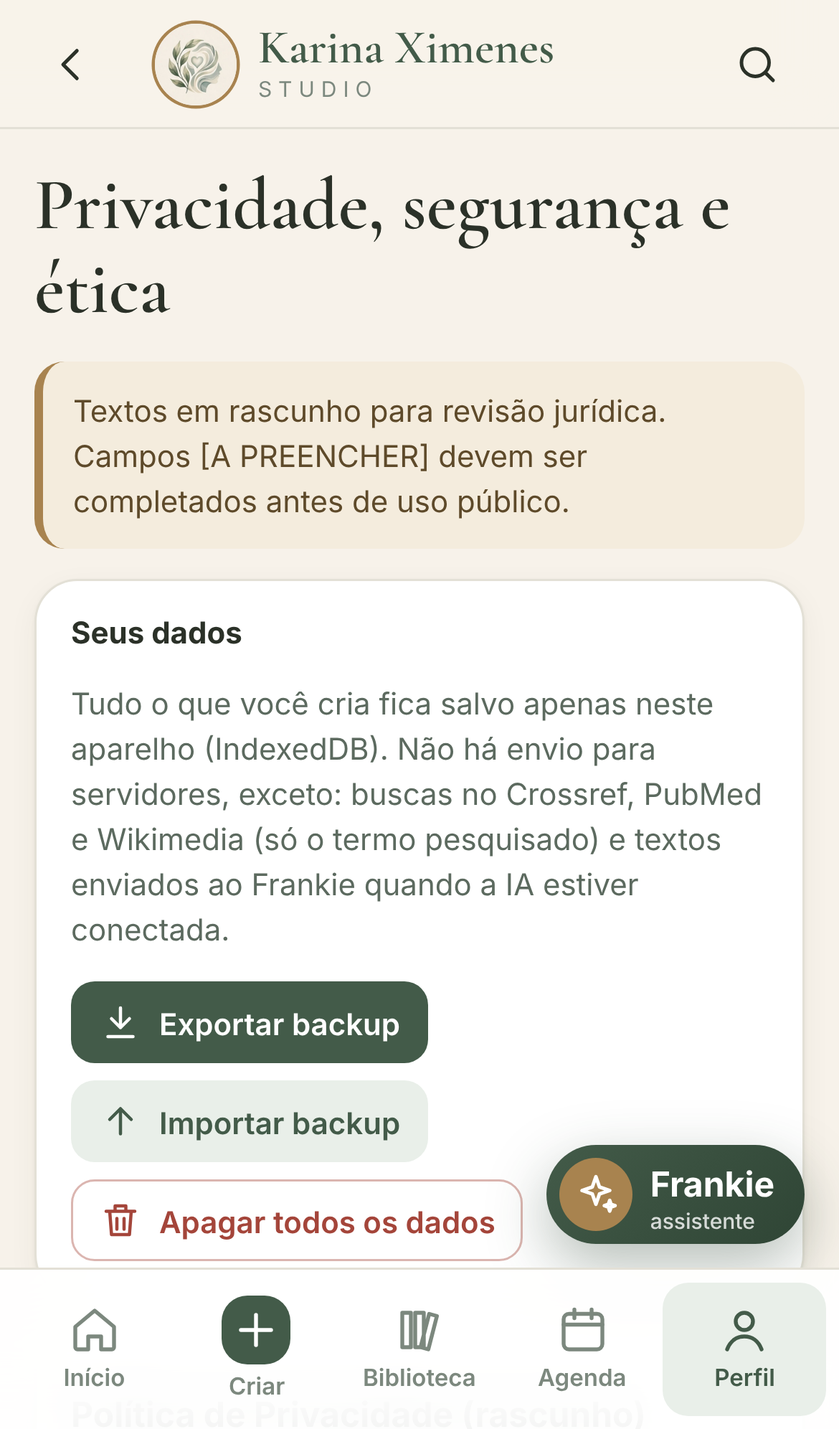
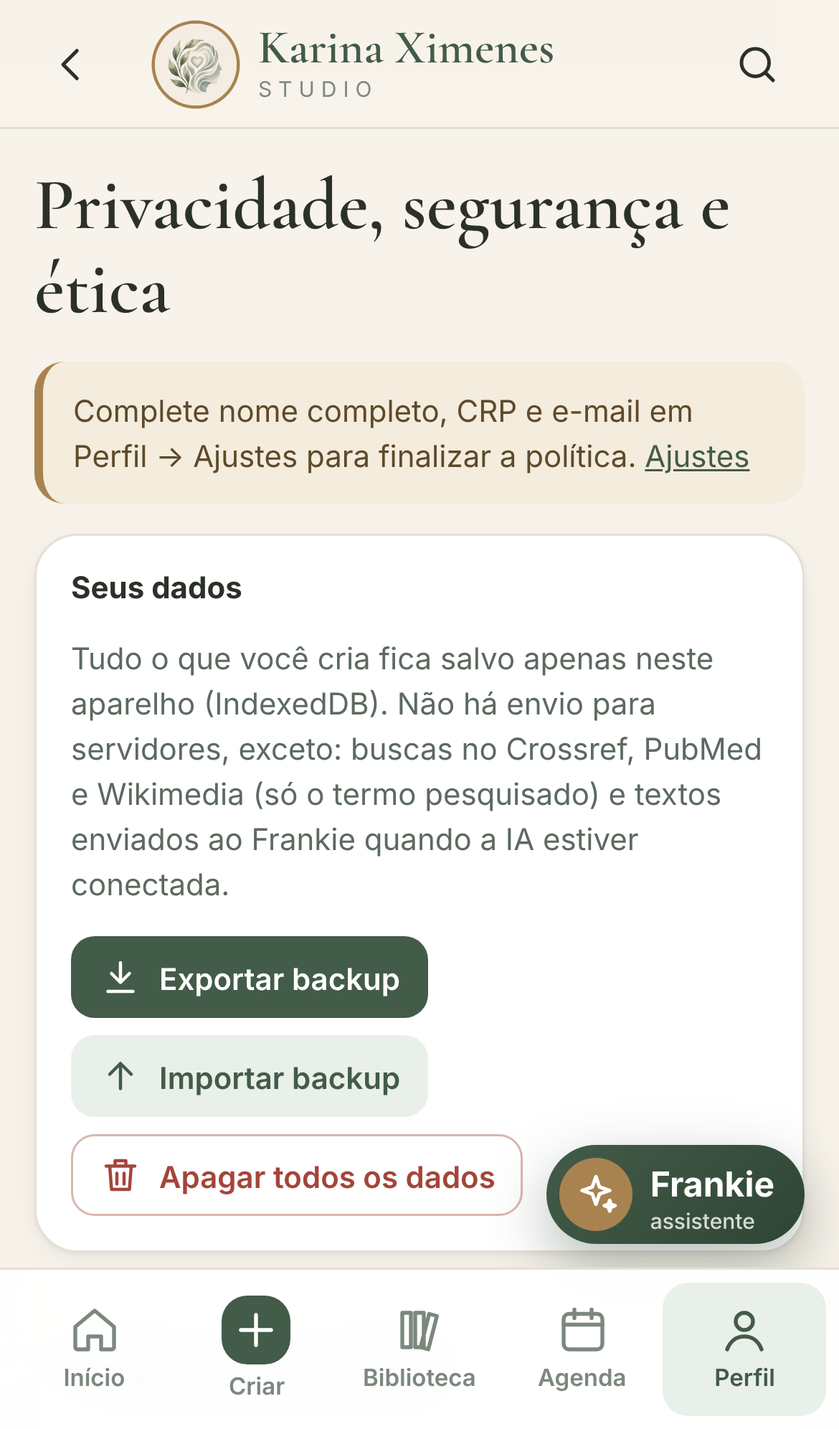
Resolver pendências: testes de integrações externas, publicação automática do Frankie, privacidade completa com dados profissionais e CRP
Claude-Session: https://claude.ai/code/session_01E4AjQ1BHyExnSFJKVQtdG5

diff --git a/js/modules/profile.js b/js/modules/profile.js
@@ -40,9 +40,18 @@ function settings(view) {
       <label class="field"><span>${t('Idioma')}</span><select class="input" id="lg">${Object.entries(LANGS).map(([k, v]) => `<option value="${k}" ${p.lang === k ? 'selected' : ''}>${v}</option>`).join('')}</select></label>
       <label class="field"><span>${t('Aparência')}</span><div class="seg" id="th">${[['auto', t('Automático')], ['light', t('Claro')], ['dark', t('Escuro')]].map(([k, v]) => `<button data-th="${k}" aria-pressed="${p.theme === k}">${v}</button>`).join('')}</div></label>
     </div>
+    <h2 class="h-section">${t('Dados profissionais')}</h2>
+    <div class="card stack">
+      <p class="small muted" style="margin:0">${t('Usados na Política de Privacidade e nos documentos. Ficam só neste aparelho.')}</p>
+      <label class="field"><span>${t('Nome completo')}</span><input class="input" id="pfn" value="${esc(p.fullName || '')}" autocomplete="name"></label>
+      <div class="grid c2"><label class="field"><span>CRP</span><input class="input" id="pcrp" value="${esc(p.crp || '')}" placeholder="00/00000"></label>
+      <label class="field"><span>${t('Cidade/UF')}</span><input class="input" id="pcity" value="${esc(p.city || '')}"></label></div>
+      <label class="field"><span>${t('E-mail para contato e privacidade')}</span><input class="input" id="pmail" type="email" value="${esc(p.email || '')}" autocomplete="email"></label>
+    </div>
     <h2 class="h-section">Frankie · ${t('IA')}</h2>
     <div class="card stack">
       <p class="small muted" style="margin:0">${t('O Frankie usa IA por um backend seguro (Cloudflare Worker) onde fica a chave — nada sensível é guardado no app. Sem backend, ele funciona no modo assistido.')}</p>
+      <p class="xs muted" style="margin:0">${t('Se o Frankie foi publicado pelo GitHub, o endereço é preenchido sozinho — basta o código de acesso.')}</p>
       <label class="field"><span>${t('Endereço do backend')}</span><input class="input" id="ae" placeholder="https://frankie.SEU-SUBDOMINIO.workers.dev" value="${esc(p.aiEndpoint)}" inputmode="url"></label>
       <label class="field"><span>${t('Código de acesso')}</span><input class="input" id="ac" type="password" value="${esc(p.aiCode)}" autocomplete="off"></label>
       <p class="xs muted" style="margin:0">${t('Guia de instalação do backend: arquivo worker/README.md no repositório.')}</p>
@@ -57,7 +66,9 @@ function settings(view) {
   $('#sv', view).onclick = () => {
     const ae = $('#ae', view).value.trim();
     if (ae && !/^https:\/\//.test(ae)) return toast(t('O endereço do backend precisa começar com https://'));
-    prefs.set({ name: $('#nm', view).value.trim() || 'Karina', signature: $('#sg', view).value.trim() || 'Karina Ximenes | Psicóloga', lang: $('#lg', view).value, aiEndpoint: ae, aiCode: $('#ac', view).value });
+    const email = $('#pmail', view).value.trim(); if (email && !/^[^@\s]+@[^@\s]+\.[^@\s]+$/.test(email)) return toast(t('E-mail inválido'));
+    const crp = $('#pcrp', view).value.trim(); if (crp && !/^\d{2}\/\d{3,6}$/.test(crp)) return toast(t('CRP no formato 00/00000'));
+    prefs.set({ fullName: $('#pfn', view).value.trim(), crp, city: $('#pcity', view).value.trim(), email, name: $('#nm', view).value.trim() || 'Karina', signature: $('#sg', view).value.trim() || 'Karina Ximenes | Psicóloga', lang: $('#lg', view).value, aiEndpoint: ae, aiCode: $('#ac', view).value });
     setLang($('#lg', view).value); paintChrome(); toast(t('Ajustes salvos')); refresh();
   };
   $('#chpin', view).onclick = () => {
@@ -78,7 +89,7 @@ async function brand(view) {
     <h2 class="h-section">${t('Tipografia')}</h2>
     <div class="card"><p style="font-family:var(--serif);font-size:32px;margin:0">Cormorant Garamond</p><p class="small muted">${t('Títulos e frases — elegância editorial')}</p><p style="font-family:var(--sans);font-size:22px;margin:10px 0 0">Inter</p><p class="small muted">${t('Textos de apoio e interface — legibilidade')}</p></div>
     <h2 class="h-section">${t('Ícones do aplicativo')}</h2>
-    <div class="card row" style="justify-content:space-around">${[['icon-180.png', 'iPhone 180'], ['icon-192.png', 'Android 192'], ['icon-maskable-512.png', 'Maskable 512'], ['favicon-48.png', 'Favicon']].map(([f, l]) => `<div style="text-align:center"><img src="./assets/brand/${f}?v=2.0.0" alt="${l}" style="width:64px;height:64px;border-radius:14px;box-shadow:var(--shadow-1)"><div class="xs muted">${l}</div></div>`).join('')}</div>
+    <div class="card row" style="justify-content:space-around">${[['icon-180.png', 'iPhone 180'], ['icon-192.png', 'Android 192'], ['icon-maskable-512.png', 'Maskable 512'], ['favicon-48.png', 'Favicon']].map(([f, l]) => `<div style="text-align:center"><img src="./assets/brand/${f}?v=2.0.1" alt="${l}" style="width:64px;height:64px;border-radius:14px;box-shadow:var(--shadow-1)"><div class="xs muted">${l}</div></div>`).join('')}</div>
     <h2 class="h-section">${t('Paletas para artes')}</h2>
     <div class="chips">${Object.values(PALETTES).map((p) => `<span class="chip"><i style="width:14px;height:14px;border-radius:50%;background:${p.bg.type === 'solid' ? p.bg.c1 : `linear-gradient(${p.bg.c1},${p.bg.c2})`};border:1px solid #0002"></i>${t(p.name)}</span>`).join('')}</div>`;
   $('.palette', view).onclick = (e) => { const b = e.target.closest('[data-hex]'); if (b) copyText(b.dataset.hex); };
@@ -104,22 +115,30 @@ function install(view) {
 }
 
 function privacy(view) {
+  const pf = prefs.get();
+  const F = (v, label) => (v ? esc(v) : `<a class="fill" href="#/perfil/ajustes">[${esc(t('preencher em Ajustes'))}: ${esc(label)}]</a>`);
+  const missing = !pf.fullName || !pf.crp || !pf.email;
   view.innerHTML = `<h1 class="h-title">${t('Privacidade, segurança e ética')}</h1>
-    <p class="notice small">${t('Textos em rascunho para revisão jurídica. Campos [A PREENCHER] devem ser completados antes de uso público.')}</p>
+    ${missing ? `<p class="notice small">${t('Complete nome completo, CRP e e-mail em Perfil → Ajustes para finalizar a política.')} <a href="#/perfil/ajustes">${t('Ajustes')}</a></p>` : `<p class="notice ai small">${t('Política completa com seus dados profissionais. Recomendamos revisão jurídica antes de divulgação pública.')}</p>`}
     <div class="card" style="margin-top:12px"><h3 class="small">${t('Seus dados')}</h3><p class="small muted">${t('Tudo o que você cria fica salvo apenas neste aparelho (IndexedDB). Não há envio para servidores, exceto: buscas no Crossref, PubMed e Wikimedia (só o termo pesquisado) e textos enviados ao Frankie quando a IA estiver conectada.')}</p>
       <div class="row"><button class="btn sm" id="exp">${I.download}${t('Exportar backup')}</button><label class="btn sm secondary">${I.up}${t('Importar backup')}<input type="file" accept="application/json" id="imp" hidden></label><button class="btn sm danger" id="wipe">${I.trash}${t('Apagar todos os dados')}</button></div></div>
     <div class="legal card" style="margin-top:12px">
-      <h3>${t('Política de Privacidade (rascunho)')}</h3>
-      <p>Controladora: <span class="fill">[A PREENCHER — nome completo e CRP]</span>. Contato do encarregado (DPO): <span class="fill">[A PREENCHER — e-mail]</span>.</p>
-      <p>Finalidade: criação de conteúdo educativo e institucional. O aplicativo não se destina a registro de prontuários ou dados de pacientes (LGPD, art. 11 — dados sensíveis de saúde).</p>
-      <p>Base legal: <span class="fill">[A PREENCHER]</span>. Retenção: os dados permanecem no aparelho até que a usuária os apague. Direitos do titular (art. 18): acesso, correção, portabilidade (exportar backup) e eliminação (apagar dados) disponíveis nesta tela.</p>
-      <p>Compartilhamento com terceiros: Crossref, NCBI/PubMed e Wikimedia recebem apenas os termos de busca; o provedor de IA recebe apenas os textos enviados ao Frankie, via backend próprio. <span class="fill">[A PREENCHER — provedores e país de processamento]</span>.</p>
-      <h3>${t('Termos de uso (rascunho)')}</h3>
-      <p>Uso exclusivo da titular <span class="fill">[A PREENCHER]</span>. As artes e textos são de responsabilidade da profissional, que deve revisá-los antes da publicação.</p>
+      <h3>${t('Política de Privacidade')}</h3>
+      <p class="xs muted">Versão 1.0 — ${new Date().toLocaleDateString('pt-BR')}. Documento elaborado com base na LGPD (Lei 13.709/2018) e no Código de Ética Profissional do Psicólogo (Resolução CFP 010/2005); recomenda-se revisão por profissional do Direito.</p>
+      <p><b>1. Quem somos.</b> O Studio Karina Ximenes é um aplicativo de uso profissional de ${F(pf.fullName, 'nome completo')}, psicóloga, ${pf.crp ? 'CRP ' + esc(pf.crp) : F('', 'CRP')}${pf.city ? ', ' + esc(pf.city) : ''}, que atua como <b>controladora</b> dos dados tratados no aplicativo. Contato para assuntos de privacidade (encarregada): ${F(pf.email, 'e-mail')}.</p>
+      <p><b>2. Finalidade.</b> Criar, organizar e publicar conteúdos educativos, científicos e institucionais em Psicologia. O aplicativo <b>não</b> se destina ao registro de prontuários, atendimentos ou quaisquer dados de pacientes.</p>
+      <p><b>3. Dados tratados.</b> (a) conteúdos criados pela usuária (artes, textos, documentos, agenda, referências); (b) imagens adicionadas pela usuária ou obtidas em bancos de licença livre; (c) preferências do aplicativo. Não coletamos dados de navegação, localização, contatos nem usamos cookies de rastreamento.</p>
+      <p><b>4. Onde ficam.</b> Todos os dados ficam armazenados <b>apenas no aparelho</b> (IndexedDB/armazenamento local do navegador). Não há servidor do Studio que receba ou guarde esses dados.</p>
+      <p><b>5. Compartilhamento.</b> Somente quando a usuária aciona: termos de busca enviados ao Crossref (EUA), à National Library of Medicine/PubMed (EUA) e à Wikimedia Foundation (EUA); textos enviados ao assistente Frankie, que trafegam pelo backend próprio na Cloudflare (rede global) até o provedor de IA Anthropic (EUA). Não há venda nem uso publicitário de dados.</p>
+      <p><b>6. Bases legais.</b> Legítimo interesse da controladora na produção de conteúdo profissional (art. 7º, IX) e execução de suas atividades profissionais (art. 7º, V). Dados pessoais sensíveis (art. 11) não devem ser inseridos no aplicativo.</p>
+      <p><b>7. Transferência internacional.</b> As buscas e o uso da IA envolvem fornecedores fora do Brasil, com base no art. 33 da LGPD (cláusulas e garantias contratuais dos fornecedores). Não envie ao Frankie nomes, histórias ou dados identificáveis de pacientes.</p>
+      <p><b>8. Retenção e exclusão.</b> Os dados permanecem no aparelho até que a usuária os exclua. A qualquer momento é possível exportar (portabilidade) ou apagar todos os dados nesta tela.</p>
+      <p><b>9. Direitos do titular (art. 18).</b> Confirmação, acesso, correção, portabilidade, eliminação e informação sobre compartilhamento — exercidos diretamente no aplicativo ou pelo e-mail acima.</p>
+      <p><b>10. Segurança.</b> HTTPS, política de segurança de conteúdo (CSP), PIN opcional cifrado (PBKDF2), backend de IA com código de acesso, origem restrita e limite de uso; nenhuma chave secreta no aplicativo.</p>
+      <h3>${t('Termos de uso')}</h3>
+      <p>1. O aplicativo é de uso exclusivo de ${F(pf.fullName, 'nome completo')} e de pessoas por ela autorizadas. 2. O conteúdo produzido é de responsabilidade da profissional, que deve revisá-lo antes de publicar, inclusive o gerado com apoio de IA. 3. Imagens de bancos livres devem ter licença e autoria conferidas antes da publicação. 4. As frases e modelos do Studio são originais; referências bíblicas são indicadas por "cf." e citações de domínio público são identificadas. 5. Proibido inserir dados de pacientes ou usar o aplicativo para atendimento, diagnóstico ou promessa de resultado.</p>
       <h3>${t('Compromissos éticos (Código de Ética do CFP)')}</h3>
-      <ul><li>Sem promessa de cura, garantia de resultados ou sensacionalismo na publicidade.</li><li>Sem diagnóstico ou atendimento pelas redes sociais.</li><li>Sigilo: nunca publicar dados ou relatos identificáveis de pacientes.</li><li>Conteúdo gerado por IA é sinalizado e sempre revisado por humana.</li><li>Referências científicas apenas de fontes verificáveis; nada é inventado.</li><li>Temas de risco com indicação de ajuda: CVV 188, Central da Mulher 180, SAMU 192.</li></ul>
-      <h3>${t('Segurança')}</h3>
-      <ul><li>Conexão sempre criptografada (HTTPS).</li><li>Política de segurança de conteúdo (CSP) restringe scripts ao próprio app.</li><li>Nenhuma chave secreta no aplicativo; a IA usa backend com código de acesso e limite de uso.</li><li>PIN opcional de acesso, cifrado com PBKDF2.</li></ul>
+      <ul><li>Sem promessa de cura, garantia de resultados ou sensacionalismo na publicidade.</li><li>Sem diagnóstico ou atendimento pelas redes sociais.</li><li>Sigilo: nunca publicar dados ou relatos identificáveis de pacientes.</li><li>Conteúdo gerado por IA é sinalizado e sempre revisado por humana.</li><li>Referências científicas apenas de fontes verificáveis; nada é inventado.</li><li>Temas de risco com indicação de ajuda: CVV 188, Central da Mulher 180, SAMU 192.</li><li>Divulgação profissional com nome e número do CRP.</li></ul>
     </div>`;
   $('#exp', view).onclick = async () => { const data = await exportAll(); downloadBlob(new Blob([JSON.stringify(data)], { type: 'application/json' }), `backup-studio-karina-${new Date().toISOString().slice(0, 10)}.json`); toast(t('Backup exportado')); };
   $('#imp', view).onchange = async (e) => { const f = e.target.files[0]; if (!f) return; try { await importAll(JSON.parse(await f.text())); toast(t('Backup importado')); refresh(); } catch (err) { toast(err.message); } };
@@ -144,8 +163,8 @@ async function admin(view) {
   const checks = [];
   const ck = async (name, fn) => { try { const r = await fn(); checks.push([name, !!r, typeof r === 'string' ? r : '']); } catch (e) { checks.push([name, false, e.message]); } };
   await ck(t('Logomarca original carregada'), async () => { const im = await getLogo(); return im.naturalWidth >= 400 && `${im.naturalWidth}×${im.naturalHeight}`; });
-  for (const [f, sz] of [['icon-180.png', 180], ['icon-192.png', 192], ['icon-512.png', 512], ['icon-maskable-512.png', 512]]) await ck(`${t('Ícone')} ${f}`, () => new Promise((ok) => { const im = new Image(); im.onload = () => ok(im.naturalWidth === sz && `${sz}×${sz}`); im.onerror = () => ok(false); im.src = `./assets/brand/${f}?v=2.0.0`; }));
-  await ck(t('Manifesto PWA'), async () => { const m = await (await fetch('./manifest.webmanifest?v=2.0.0')).json(); return m.icons.length >= 4 && m.name; });
+  for (const [f, sz] of [['icon-180.png', 180], ['icon-192.png', 192], ['icon-512.png', 512], ['icon-maskable-512.png', 512]]) await ck(`${t('Ícone')} ${f}`, () => new Promise((ok) => { const im = new Image(); im.onload = () => ok(im.naturalWidth === sz && `${sz}×${sz}`); im.onerror = () => ok(false); im.src = `./assets/brand/${f}?v=2.0.1`; }));
+  await ck(t('Manifesto PWA'), async () => { const m = await (await fetch('./manifest.webmanifest?v=2.0.1')).json(); return m.icons.length >= 4 && m.name; });
   await ck(t('Fontes da marca'), async () => { await document.fonts.ready; return document.fonts.check('600 20px "Cormorant Garamond"') && document.fonts.check('400 16px Inter'); });
   await ck(t('Banco de dados local'), async () => { await db.put('texts', { id: '__diag', title: 'diag', text: '' }); await db.del('texts', '__diag'); return true; });
   await ck(t('Modo offline (service worker)'), async () => !!navigator.serviceWorker?.controller || (location.protocol === 'https:' ? '' : 'http local'));

diff --git a/index.html b/index.html
@@ -15,19 +15,19 @@
   <meta name="apple-mobile-web-app-title" content="Studio Karina">
   <meta name="apple-mobile-web-app-status-bar-style" content="default">
   <!-- Ícones derivados EXCLUSIVAMENTE da logomarca original (assets/brand/logo-original.jpg) -->
-  <link rel="apple-touch-icon" sizes="180x180" href="./assets/brand/icon-180.png?v=2.0.0">
-  <link rel="icon" type="image/png" sizes="32x32" href="./assets/brand/favicon-32.png?v=2.0.0">
-  <link rel="icon" type="image/png" sizes="48x48" href="./assets/brand/favicon-48.png?v=2.0.0">
-  <link rel="icon" type="image/png" sizes="192x192" href="./assets/brand/icon-192.png?v=2.0.0">
-  <link rel="manifest" href="./manifest.webmanifest?v=2.0.0">
+  <link rel="apple-touch-icon" sizes="180x180" href="./assets/brand/icon-180.png?v=2.0.1">
+  <link rel="icon" type="image/png" sizes="32x32" href="./assets/brand/favicon-32.png?v=2.0.1">
+  <link rel="icon" type="image/png" sizes="48x48" href="./assets/brand/favicon-48.png?v=2.0.1">
+  <link rel="icon" type="image/png" sizes="192x192" href="./assets/brand/icon-192.png?v=2.0.1">
+  <link rel="manifest" href="./manifest.webmanifest?v=2.0.1">
   <link rel="preload" href="./assets/fonts/cormorant-garamond-latin-600-normal.woff2" as="font" type="font/woff2" crossorigin>
   <link rel="preload" href="./assets/fonts/inter-latin-400-normal.woff2" as="font" type="font/woff2" crossorigin>
-  <link rel="stylesheet" href="./css/app.css?v=2.0.0">
+  <link rel="stylesheet" href="./css/app.css?v=2.0.1">
 </head>
 <body>
   <div id="opening" aria-hidden="true">
     <div class="in">
-      <img src="./assets/brand/icon-512.png?v=2.0.0" alt="" width="280" height="280">
+      <img src="./assets/brand/icon-512.png?v=2.0.1" alt="" width="280" height="280">
       <div class="name">Karina Ximenes</div>
       <div class="tag">Studio · Psicóloga</div>
     </div>
@@ -36,7 +36,7 @@
   <header class="topbar">
     <button class="icon-btn back" id="btn-back" aria-label="Voltar"></button>
     <a class="brand" href="#/" aria-label="Início — Studio Karina Ximenes">
-      <img src="./assets/brand/icon-192.png?v=2.0.0" alt="Logomarca Karina Ximenes" width="38" height="38">
+      <img src="./assets/brand/icon-192.png?v=2.0.1" alt="Logomarca Karina Ximenes" width="38" height="38">
       <span><b>Karina Ximenes</b><small>Studio</small></span>
     </a>
     <button class="icon-btn" id="btn-search" aria-label="Buscar"></button>
@@ -57,6 +57,6 @@
   <div id="toast" role="status" aria-live="polite"></div>
   <div id="print-root"></div>
   <noscript><p style="padding:24px">Ative o JavaScript para usar o Studio Karina Ximenes.</p></noscript>
-  <script type="module" src="./js/app.js?v=2.0.0"></script>
+  <script type="module" src="./js/app.js?v=2.0.1"></script>
 </body>
 </html>

diff --git a/js/lib/i18n-dict.js b/js/lib/i18n-dict.js
@@ -664,4 +664,18 @@ export const DICT = {
   "Reflexão salva. Ela entra nas próximas programações.": { en: "Reflection saved. It will be used in upcoming schedules.", es: "Reflexión guardada. Entrará en las próximas programaciones." },
   "Excluir esta reflexão? Artes já criadas continuam salvas.": { en: "Delete this reflection? Designs already created stay saved.", es: "¿Eliminar esta reflexión? Los diseños ya creados se mantienen." },
   "Salvar como minha reflexão": { en: "Save as my reflection", es: "Guardar como mi reflexión" },
+  "Informe o código de acesso do Frankie em Perfil → Ajustes.": { en: "Enter Frankie's access code in Profile → Settings.", es: "Introduce el código de acceso de Frankie en Perfil → Ajustes." },
+  "Se o Frankie foi publicado pelo GitHub, o endereço é preenchido sozinho — basta o código de acesso.": { en: "If Frankie was published via GitHub, the address is filled in automatically — you only need the access code.", es: "Si Frankie se publicó desde GitHub, la dirección se completa sola; solo hace falta el código de acceso." },
+  "Dados profissionais": { en: "Professional details", es: "Datos profesionales" },
+  "Usados na Política de Privacidade e nos documentos. Ficam só neste aparelho.": { en: "Used in the Privacy Policy and documents. Stored only on this device.", es: "Se usan en la Política de Privacidad y en los documentos. Quedan solo en este dispositivo." },
+  "Nome completo": { en: "Full name", es: "Nombre completo" },
+  "Cidade/UF": { en: "City/State", es: "Ciudad/Estado" },
+  "E-mail para contato e privacidade": { en: "Contact and privacy e-mail", es: "Correo de contacto y privacidad" },
+  "E-mail inválido": { en: "Invalid e-mail", es: "Correo no válido" },
+  "CRP no formato 00/00000": { en: "CRP in the format 00/00000", es: "CRP en el formato 00/00000" },
+  "Política de Privacidade": { en: "Privacy Policy", es: "Política de Privacidad" },
+  "Termos de uso": { en: "Terms of use", es: "Términos de uso" },
+  "preencher em Ajustes": { en: "fill in Settings", es: "completar en Ajustes" },
+  "Complete nome completo, CRP e e-mail em Perfil → Ajustes para finalizar a política.": { en: "Fill in full name, CRP and e-mail in Profile → Settings to finish the policy.", es: "Completa nombre, CRP y correo en Perfil → Ajustes para finalizar la política." },
+  "Política completa com seus dados profissionais. Recomendamos revisão jurídica antes de divulgação pública.": { en: "Policy complete with your professional details. We recommend a legal review before public release.", es: "Política completa con tus datos profesionales. Recomendamos revisión jurídica antes de difundirla." },
 };

diff --git a/js/modules/ai.js b/js/modules/ai.js
@@ -39,10 +39,17 @@ export const TASKS = {
 export const TONES = { acolhedor: 'Acolhedor', cientifico: 'Científico', reflexivo: 'Reflexivo', institucional: 'Institucional', educativo: 'Educativo' };
 
 /** Chamada ao backend seguro */
+/** Endereço do backend: o digitado em Ajustes ou o publicado automaticamente (frankie.json) */
+export async function aiEndpoint() {
+  const p = prefs.get(); if (p.aiEndpoint) return p.aiEndpoint;
+  try { const r = await fetch('./frankie.json', { cache: 'no-store' }); if (r.ok) { const j = await r.json(); if (/^https:\/\//.test(j.endpoint || '')) return j.endpoint; } } catch { /* offline */ }
+  return '';
+}
 export async function callAI(payload) {
-  const { aiEndpoint, aiCode } = prefs.get();
-  if (!aiEndpoint) throw new Error('no-endpoint');
-  const r = await fetch(aiEndpoint, { method: 'POST', headers: { 'Content-Type': 'application/json', 'X-Access-Code': aiCode || '' }, body: JSON.stringify(payload) });
+  const { aiCode } = prefs.get(); const endpoint = await aiEndpoint();
+  if (!endpoint) throw new Error('no-endpoint');
+  if (!aiCode) throw new Error(t('Informe o código de acesso do Frankie em Perfil → Ajustes.'));
+  const r = await fetch(endpoint, { method: 'POST', headers: { 'Content-Type': 'application/json', 'X-Access-Code': aiCode || '' }, body: JSON.stringify(payload) });
   const j = await r.json().catch(() => ({}));
   if (!r.ok) throw new Error(j.error || `HTTP ${r.status}`);
   return j.text;
@@ -64,7 +71,7 @@ function assisted({ task, text, tone, network }) {
 }
 
 export async function render(view) {
-  const pr = prefs.get(); const hasAI = !!pr.aiEndpoint;
+  const hasAI = !!(await aiEndpoint());
   const texts = await db.all('texts');
   const mine = await db.all('phrases');
   let task = 'reflexao'; let tone = 'acolhedor';

diff --git a/js/modules/docs.js b/js/modules/docs.js
@@ -30,7 +30,7 @@ export async function render(view, params) {
   view.onclick = async (e) => {
     const b = e.target.closest('[data-kind]'); if (!b) return;
     const k = KINDS[b.dataset.kind];
-    const doc = { id: uid('d'), kind: b.dataset.kind, title: t(k.label), subtitle: '', author: 'Karina Ximenes — Psicóloga', date: new Date().toLocaleDateString('pt-BR', { month: 'long', year: 'numeric' }), cover: true, footer: 'Karina Ximenes | Psicóloga', style: prefs.get().refStyle || 'abnt', refIds: [], blocks: k.outline.map(([type, text]) => ({ id: uid('b'), type, text: t(text) })) };
+    const doc = { id: uid('d'), kind: b.dataset.kind, title: t(k.label), subtitle: '', author: (() => { const p = prefs.get(); return `${p.fullName || 'Karina Ximenes'} — Psicóloga${p.crp ? ' · CRP ' + p.crp : ''}`; })(), date: new Date().toLocaleDateString('pt-BR', { month: 'long', year: 'numeric' }), cover: true, footer: 'Karina Ximenes | Psicóloga', style: prefs.get().refStyle || 'abnt', refIds: [], blocks: k.outline.map(([type, text]) => ({ id: uid('b'), type, text: t(text) })) };
     await db.put('docs', doc); location.hash = `#/documento/${doc.id}`;
   };
 }

diff --git a/js/app.js b/js/app.js
@@ -4,7 +4,7 @@ import { prefs, db } from './lib/store.js';
 import { generateMonth, monthsAhead } from './lib/plan.js';
 import { I, $, $$, toast } from './ui.js';
 
-export const VERSION = '2.0.0';
+export const VERSION = '2.0.1';
 
 const ROUTES = {
   '': () => import('./modules/home.js'),
@@ -77,7 +77,7 @@ export async function ensurePlan({ force = false, months = prefs.get().planMonth
   for (const [y, m] of monthsAhead(new Date(), months)) {
     const key = `${y}-${String(m).padStart(2, '0')}`;
     if (done.has(key) && !force) continue;
-    for (const post of generateMonth(y, m, { days: p.planDays || [1, 3, 5], signature: p.signature, used })) {
+    for (const post of generateMonth(y, m, { days: p.planDays || [1, 3, 5], signature: (await import('./ui.js')).signature(), used })) {
       if (existing.has(post.id)) continue; // nunca sobrescreve edições da Karina
       await db.put('posts', post); added++;
     }

diff --git a/js/ui.js b/js/ui.js
@@ -165,7 +165,8 @@ export function lazyThumbs(root, draw) {
   $$('canvas[data-lazy]', root).forEach((c) => io.observe(c));
 }
 
-export const signature = () => prefs.get().signature || 'Karina Ximenes | Psicóloga';
+/** Assinatura das artes/legendas; inclui o CRP quando informado (exigência da publicidade profissional) */
+export const signature = () => { const p = prefs.get(); const sig = p.signature || 'Karina Ximenes | Psicóloga'; return p.crp && !sig.includes(p.crp) ? `${sig} · CRP ${p.crp}` : sig; };
 export const statusLabel = (s) => ({ ideia: t('Ideia'), rascunho: t('Rascunho'), revisao: t('Revisão'), aprovado: t('Aprovado'), publicado: t('Publicado') }[s] || s);
 export const STATUSES = ['ideia', 'rascunho', 'revisao', 'aprovado', 'publicado'];
 

diff --git a/sw.js b/sw.js
@@ -1,5 +1,5 @@
 // Service worker — offline e cache versionado. Atualize VERSION a cada publicação.
-const VERSION = '2.0.0';
+const VERSION = '2.0.1';
 const CACHE = 'studio-karina-' + VERSION;
 const CORE = [
  "./",
